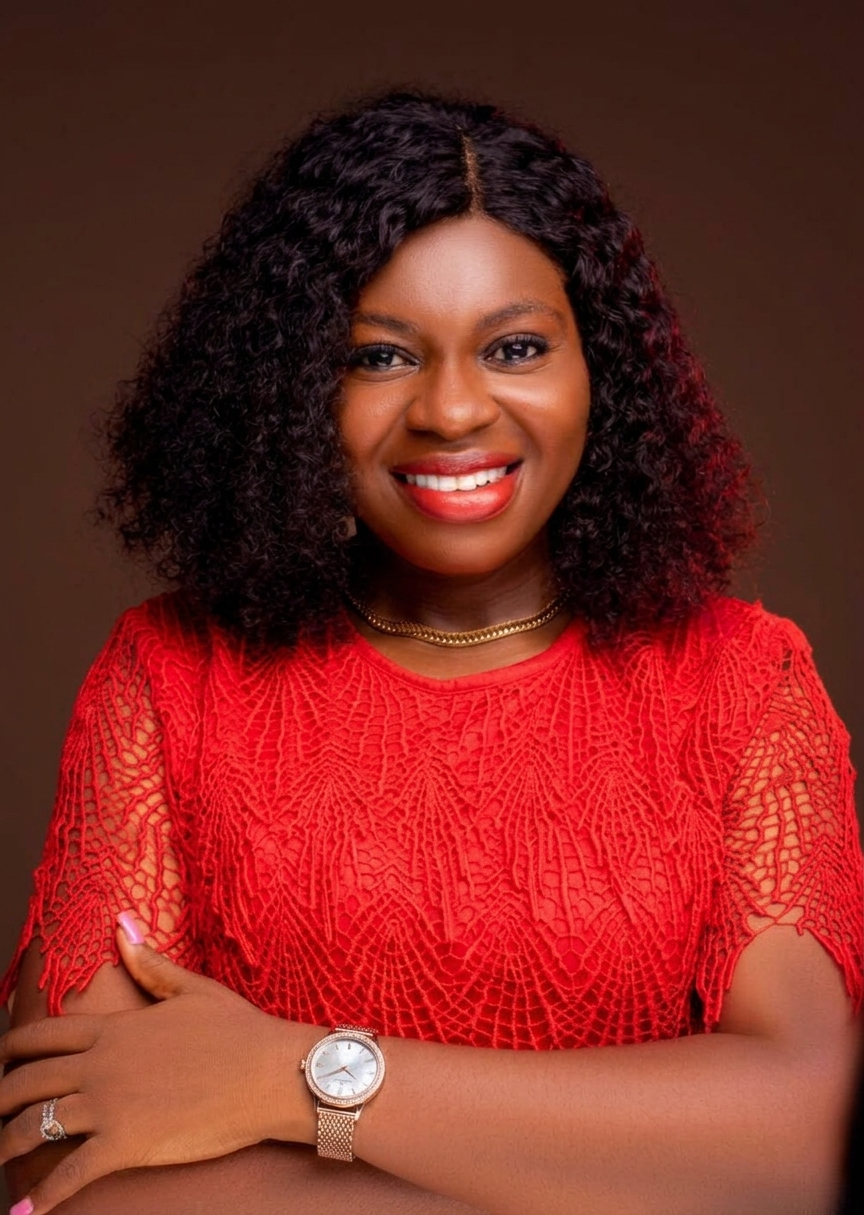
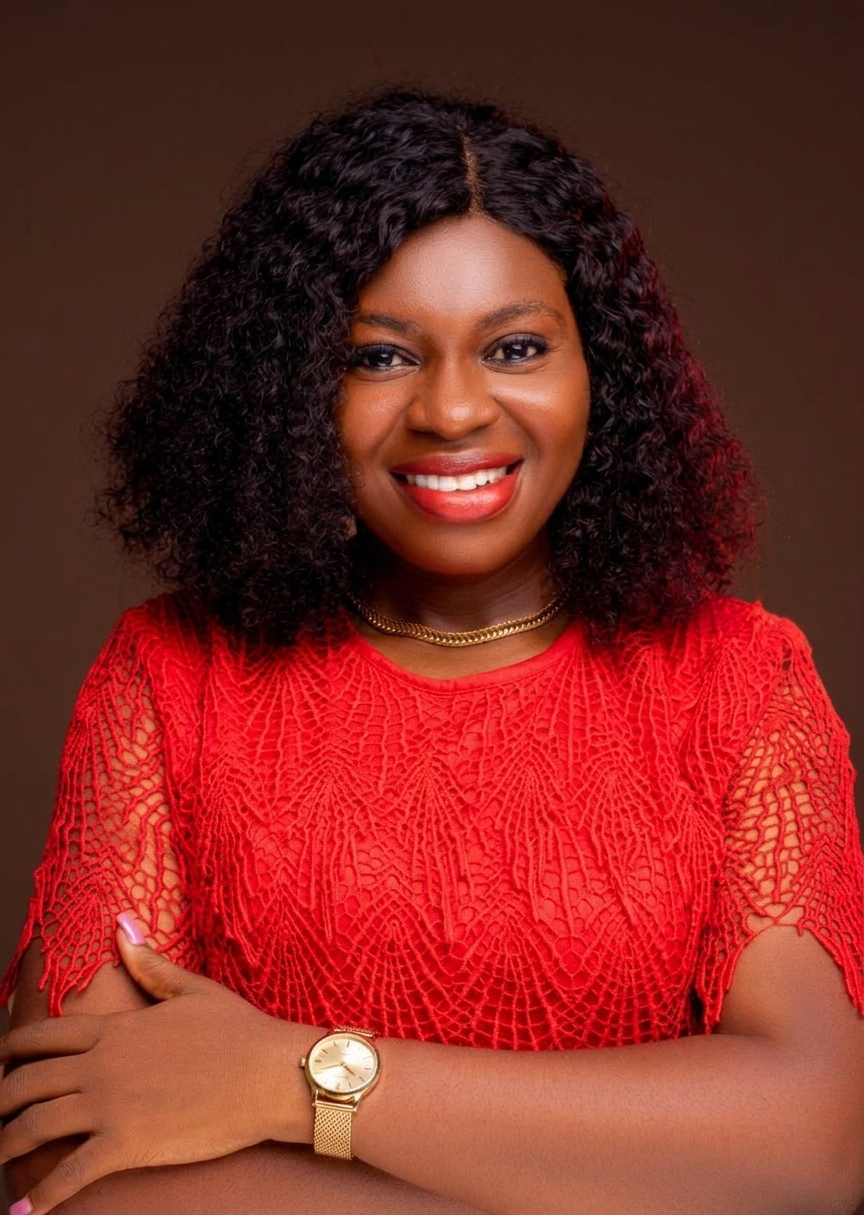
Lead the growth convictions with the Brand Promise and refresh page copy
- Growth: show The Brand Promise as conviction 01, highlighted in gold,
  and bring back the speaking link as "See same delivered as a keynote
  or masterclass".
- Testimonials: add a sixth Book Club testimonial and tidy the spelling
  of the existing ones.
- Speaking: mention FG MDAs among the platforms.
- Book: use the full name on the cover placeholder.
- Replace the Chinezered portrait, keeping the previous one as old2.

diff --git a/app/growth/page.tsx b/app/growth/page.tsx
@@ -128,8 +128,11 @@ const gallery: GalleryPhoto[] = [
   },
 ]
 
+// Shown as conviction 01, highlighted the same way as on the Trainings page.
+const brandPromise = 'Equipped through every Experience with us, and Equipped for life.'
+
+// Numbered from 02 onwards, after the brand promise.
 const convictions = [
-  'Equip The Individual. Strengthen The System. Shape The Future.',
   'Transformation is never merely transactional; it is deeply human.',
   'Transformation begins within — but its impact should reach far beyond the individual.',
 ]
@@ -327,6 +330,24 @@ export default function GrowthPage() {
 
         <div className="max-w-7xl mx-auto px-6 pb-24">
           <SignatureCourses />
+
+          <div className="mt-12">
+            <Link
+              href="/speaking"
+              className="inline-flex items-center gap-2 text-lg font-semibold text-gold-600 hover:text-gold-700 transition-colors group/link"
+            >
+              See same delivered as a keynote or masterclass
+              <svg
+                className="w-5 h-5 group-hover/link:translate-x-0.5 transition-transform"
+                fill="none"
+                stroke="currentColor"
+                viewBox="0 0 24 24"
+                aria-hidden
+              >
+                <path strokeLinecap="round" strokeLinejoin="round" strokeWidth={2} d="M9 5l7 7-7 7" />
+              </svg>
+            </Link>
+          </div>
         </div>
       </section>
 
@@ -357,33 +378,62 @@ export default function GrowthPage() {
 
       {/* ─── CONVICTIONS ─── */}
       <section className="bg-[#0A0A0A]">
-        {convictions.map((quote, i) => (
-          <div
-            key={i}
-            className={`animate-on-scroll border-b border-white/8 group hover:bg-white/[0.02] transition-colors duration-500 ${
-              i % 2 !== 0 ? 'bg-[#0D0D0D]' : ''
-            }`}
-          >
-            <div className="max-w-7xl mx-auto px-6 py-16 md:py-20">
-              <div className={`flex items-center gap-8 ${i % 2 !== 0 ? 'flex-row-reverse' : ''}`}>
-                <div className="shrink-0">
-                  <span className="font-playfair text-gold-500/20 text-7xl font-bold group-hover:text-gold-500/30 transition-colors duration-300">
-                    {String(i + 1).padStart(2, '0')}
+        <div className="animate-on-scroll bg-gold-gradient">
+          <div className="max-w-7xl mx-auto px-6 py-16 md:py-20">
+            <div className="flex items-center gap-8">
+              <div className="shrink-0">
+                <span className="font-playfair text-charcoal/25 text-7xl font-bold">01</span>
+              </div>
+              <div className="w-px h-16 bg-charcoal/25 shrink-0 hidden md:block" />
+              <div>
+                <div className="flex items-center gap-4 mb-4">
+                  <div className="w-8 h-px bg-charcoal/40" />
+                  <span className="text-charcoal/70 text-xs tracking-[0.35em] uppercase font-semibold">
+                    The Brand Promise
                   </span>
                 </div>
-                <div className="w-px h-16 bg-gold-500/20 shrink-0 hidden md:block group-hover:bg-gold-500/50 transition-colors duration-300" />
-                <blockquote
-                  className={`font-playfair font-bold text-white/80 group-hover:text-white leading-tight transition-colors duration-300 ${
-                    i % 2 !== 0 ? 'md:text-right' : ''
-                  }`}
+                <p
+                  className="font-playfair font-bold text-charcoal leading-tight"
                   style={{ fontSize: 'clamp(1.4rem, 3.2vw, 2.6rem)' }}
                 >
-                  &ldquo;{quote}&rdquo;
-                </blockquote>
+                  {brandPromise}
+                </p>
               </div>
             </div>
           </div>
-        ))}
+        </div>
+
+        {convictions.map((quote, i) => {
+          const num = i + 2
+          const reversed = num % 2 === 0
+          return (
+            <div
+              key={quote}
+              className={`animate-on-scroll border-b border-white/8 group hover:bg-white/[0.02] transition-colors duration-500 ${
+                reversed ? 'bg-[#0D0D0D]' : ''
+              }`}
+            >
+              <div className="max-w-7xl mx-auto px-6 py-16 md:py-20">
+                <div className={`flex items-center gap-8 ${reversed ? 'flex-row-reverse' : ''}`}>
+                  <div className="shrink-0">
+                    <span className="font-playfair text-gold-500/20 text-7xl font-bold group-hover:text-gold-500/30 transition-colors duration-300">
+                      {String(num).padStart(2, '0')}
+                    </span>
+                  </div>
+                  <div className="w-px h-16 bg-gold-500/20 shrink-0 hidden md:block group-hover:bg-gold-500/50 transition-colors duration-300" />
+                  <blockquote
+                    className={`font-playfair font-bold text-white/80 group-hover:text-white leading-tight transition-colors duration-300 ${
+                      reversed ? 'md:text-right' : ''
+                    }`}
+                    style={{ fontSize: 'clamp(1.4rem, 3.2vw, 2.6rem)' }}
+                  >
+                    &ldquo;{quote}&rdquo;
+                  </blockquote>
+                </div>
+              </div>
+            </div>
+          )
+        })}
       </section>
 
       {/* ─── WHO IT IS FOR / PORTRAIT ─── */}

diff --git a/app/testimonials/page.tsx b/app/testimonials/page.tsx
@@ -114,7 +114,8 @@ function PendingState() {
   )
 }
 
-// Messages from members of The Transforming Place book club, transcribed from WhatsApp.
+// Messages from members of The Transforming Place book club, transcribed from WhatsApp
+// and Facebook.
 // Each inner array is one message; each string is a paragraph.
 const BOOK_CLUB_QUOTES: string[][] = [
   [
@@ -123,13 +124,19 @@ const BOOK_CLUB_QUOTES: string[][] = [
   ],
   ['I’m glad I read through your status that day else I would’ve missed the opportunity.'],
   [
-    'Chinny, am so grateful that you responded to this call. Indeed I was greatly imparted on by these books. I have alot of experience and believe me I don’t even know where to start from. I love you sis and I pray for more grace upon your life and ours in Jesus Christ name Amen.',
+    'Chinny, am so grateful that you responded to this call. Indeed I was greatly imparted on by these books. I have a lot of experience and believe me I don’t even know where to start from. I love you sis and I pray for more grace upon your life and ours in Jesus Christ name Amen.',
     'I also wish to continue with you on this journey if it’s possible. Remain blessed Radiant sisters.',
   ],
   [
-    'We will meet at the next chapter. We are not done yet. Sis, its your resilience for me! Gosh, it’s crystal. I pray for the grace for everyone of us to keep being thirsty for knowledge. More grace sis.',
+    'We will meet at the next chapter. We are not done yet. Sis, it’s your resilience for me! Gosh, it’s crystal. I pray for the grace for every one of us to keep being thirsty for knowledge. More grace sis.',
   ],
-  ['We really need to be recording this section.', 'The light here mehhhh!'],
+  ['We really need to be recording this session.', 'The light here mehhhh!'],
+  [
+    'You may never know that your Ladies’ Book Club came into my life at a time when I had been hit below the belt by life’s challenges. The books we read, the safe space you created for us to express ourselves, the encouragement we shared, and the prayers we prayed together gave me strength. They renewed my hope, restored my faith, helped me forgive, and gave me the courage to dream again and keep moving forward. Through it all, God gave me wings to fly again, all because you chose to obey His prompting.',
+    'Thank you for creating that platform. I will forever be grateful to God and to you for that divine kairos moment in my life.',
+    'This is simply my way of saying thank you and encouraging you to keep going. You are changing lives and shaping destinies, even if many people may never be bold enough to tell you, whether publicly or privately.',
+    'I love you sincerely, Sis. 💞 Welcome back, and may God continue to strengthen and use you for His glory.',
+  ],
 ]
 
 function BookClubSection() {

diff --git a/app/book/page.tsx b/app/book/page.tsx
@@ -107,7 +107,7 @@ export default function BookPage() {
                   className="absolute inset-0 bg-[linear-gradient(90deg,transparent_0%,rgba(201,162,39,0.10)_50%,transparent_100%)] bg-[length:200%_100%] animate-shimmer"
                 />
                 <div className="relative h-full flex flex-col justify-between p-8 pl-10">
-                  <span className="text-gold-400/70 text-[10px] tracking-[0.35em] uppercase">Eden Chineze</span>
+                  <span className="text-gold-400/70 text-[10px] tracking-[0.35em] uppercase">Eden Chineze Ononye</span>
                   <div className="space-y-3">
                     <div className="h-2.5 w-4/5 rounded-full bg-white/15 animate-pulse" />
                     <div className="h-2.5 w-3/5 rounded-full bg-white/10 animate-pulse" />

diff --git a/app/speaking/page.tsx b/app/speaking/page.tsx
@@ -358,7 +358,8 @@ export default function SpeakingPage() {
               <span className="text-gold-600">stood on.</span>
             </h2>
             <p className="text-charcoal/55 leading-relaxed mb-10 max-w-md">
-              Eden has been on several platforms, including podcasts and stages; some of which include:
+              Eden has been on several platforms, including podcasts, stages and a number of FG MDAs;
+              some of which include:
             </p>
 
             <div>
